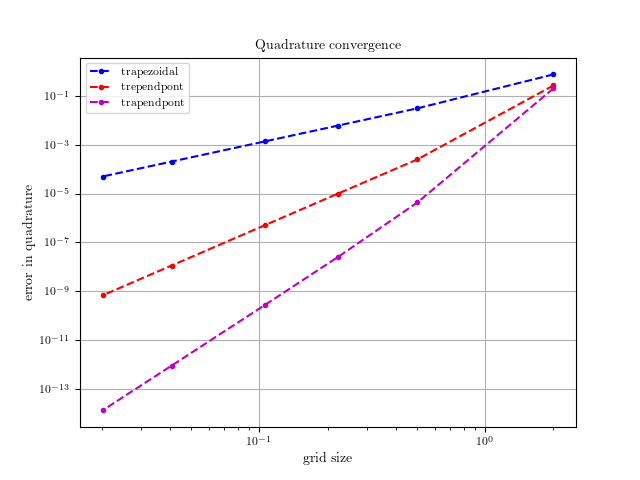
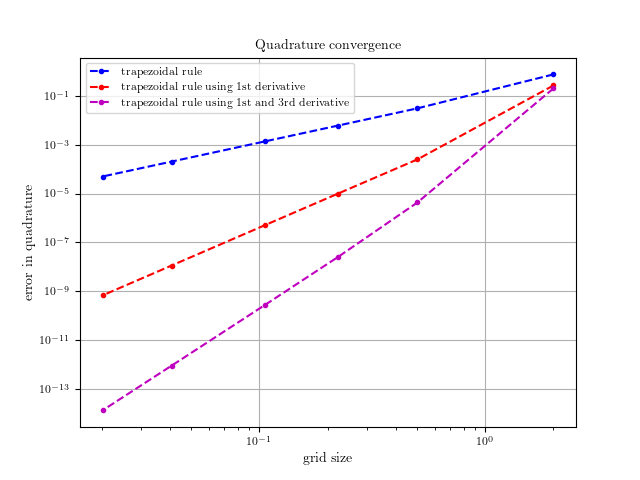
change in label name

Changed region(s): [[0.2188, 0.125, 0.5625, 0.25]]

diff --git a/Endsem/Scripts/program7.py b/Endsem/Scripts/program7.py
@@ -23,20 +23,20 @@ matplotlib.rcParams["text.usetex"] = True
 matplotlib.use("Agg")
 
 # end points of interval
-a, b = 0, 1
+a, b = -1, 1
 
 # function to be integrated
 def f(x):
-    return np.exp(-x)/np.sqrt(x)
+    return np.exp(-(x ** 2))
 
 
-# function with chnage of variable
-def g(t):
-    return 2 * np.exp(-t**2)
+# derivative of the function
+def g(x):
+    return -2 * x * np.exp(-(x ** 2))
 
 
 # exact value of the integral
-exact = 1.49364826562485405080
+exact = 0.746824132812427025399
 
 # number of grid points
 N = [5, 10, 20, 50, 100, 200, 500, 1000]
@@ -47,24 +47,28 @@ Ngrids = len(N)
 h = np.zeros(Ngrids)
 
 rect = np.zeros(Ngrids)
-recv = np.zeros(Ngrids)
+trap = np.zeros(Ngrids)
+tend = np.zeros(Ngrids)
 
 for k, N in enumerate(N):
-    h[k] = (b - a) / (N - 1)        # grid spacing
-    x = np.linspace(a, b, N)        # grid points
+    h[k] = (b - a) / (N - 1)
+    x = np.linspace(a, b, N)
     y = 0.5*(x[0:N-1] + x[1:N])
 
     rect[k] = h[k]*np.sum(f(y))
-    recv[k] = h[k]*np.sum(g(y))
+    trap[k] = h[k] * (np.sum(f(x)) - (f(a) + f(b)) / 2)
+    tend[k] = trap[k] - h[k] ** 2 / 12 * (g(b) - g(a))
 
 
 # error calculations
 rect_err = abs(np.double(rect - exact))
-recv_err = abs(np.double(recv - exact))
+trap_err = abs(np.double(trap - exact))
+tend_err = abs(np.double(tend - exact))
 
 fig, ax = plt.subplots()
 ax.loglog(h, rect_err, 'm.--', label=r'rectangular')
-ax.loglog(h, recv_err, 'b.--', label=r'rectangular (change of variable)')
+ax.loglog(h, trap_err, "b.--", label=r"trapezoidal")
+ax.loglog(h, tend_err, "r.--", label=r"trependpont")
 ax.set(xlabel=r"grid size", ylabel=r"error in quadrature")
 ax.set_title(r"Quadrature convergence")
 ax.grid(True)

diff --git a/Endsem/Scripts/program6.py b/Endsem/Scripts/program6.py
@@ -3,7 +3,7 @@
 # Name: D.Saravanan
 # Date: 02/12/2021
 
-""" Script to implement the different quadrature and see how the error behaves """
+""" Script to implement quadrature methods and see how the error behaves """
 
 import matplotlib
 import matplotlib.pyplot as plt
@@ -52,8 +52,8 @@ Ngrids = len(N)
 h = np.zeros(Ngrids)
 
 trap = np.zeros(Ngrids)  # trapezoidal rule
-tend = np.zeros(Ngrids)  # trapezoidal rule with first derivative
-tent = np.zeros(Ngrids)  # trapezoidal rule with first and third derivative
+tend = np.zeros(Ngrids)  # trapezoidal rule using first derivative
+tent = np.zeros(Ngrids)  # trapezoidal rule using first and third derivative
 
 for k, N in enumerate(N):
     h[k] = (b - a) / (N - 1)
@@ -70,9 +70,9 @@ tend_err = abs(np.double(tend - exact))
 tent_err = abs(np.double(tent - exact))
 
 fig, ax = plt.subplots()
-ax.loglog(h, trap_err, "b.--", label=r"trapezoidal")
-ax.loglog(h, tend_err, "r.--", label=r"trependpont")
-ax.loglog(h, tent_err, "m.--", label=r"trapendpont")
+ax.loglog(h, trap_err, "b.--", label=r"trapezoidal rule")
+ax.loglog(h, tend_err, "r.--", label=r"trapezoidal rule using 1st derivative")
+ax.loglog(h, tent_err, "m.--", label=r"trapezoidal rule using 1st and 3rd derivative")
 ax.set(xlabel=r"grid size", ylabel=r"error in quadrature")
 ax.set_title(r"Quadrature convergence")
 ax.grid(True)
